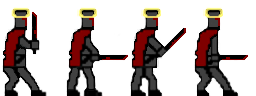
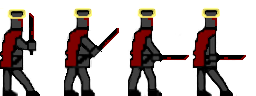
Added multiple animations

diff --git a/TE4TwoDSidescroller/Animation.cs b/TE4TwoDSidescroller/Animation.cs
@@ -88,87 +88,87 @@ namespace TE4TwoDSidescroller
 
         #region newer code
 
-        //public float timeElapsed;
-        //public bool isLooping;
-        //private float timeToUpdate; //frameSpeed
-        //public int FramePerSecond
-        //{
-        //    set
-        //    {
-        //        timeToUpdate = (1f / value);
+        public float timeElapsed;
+        public bool isLooping;
+        private float timeToUpdate; //frameSpeed
+        public int FramePerSecond
+        {
+            set
+            {
+                timeToUpdate = (1f / value);
 
-        //    }
-        //}
+            }
+        }
 
-        //protected Texture2D currentTexture;
-        //public Vector2 position;
-        //public Vector2 origin;
-        //public float rotation;
-        //public float scale;
-        //protected Rectangle[] rectangles;
-        //protected int frameIndex;
+        protected Texture2D currentTexture;
+        public Vector2 position;
+        public Vector2 origin;
+        public float rotation;
+        public float scale;
+        protected Rectangle[] rectangles;
+        protected int frameIndex;
 
-        //public Animation(Texture2D Texture, int frames)
-        //{
-        //    currentTexture = Texture;
-        //    int width = Texture.Width / frames;
-        //    rectangles = new Rectangle[frames];
+        public Animation(Texture2D Texture, int frames)
+        {
+            currentTexture = Texture;
+            int width = Texture.Width / frames;
+            rectangles = new Rectangle[frames];
 
-        //    for (int currentFrame = 0; currentFrame < frames; currentFrame++)
-        //    {
-        //        rectangles[currentFrame] = new Rectangle(
-        //            currentFrame * width, 0, width, Texture.Height);
-        //    }
+            for (int currentFrame = 0; currentFrame < frames; currentFrame++)
+            {
+                rectangles[currentFrame] = new Rectangle(
+                    currentFrame * width, 0, width, Texture.Height);
+            }
 
-        //    position = Vector2.Zero;
-        //    rotation = 0.0f;
-        //    scale = 1f;
-        //    frameIndex = 0;
-        //}
+            position = Vector2.Zero;
+            rotation = 0.0f;
+            scale = 1f;
+            frameIndex = 0;
+        }
 
-        //public void Draw(GameTime gameTime)
-        //{
-        //    GameInfo.spriteBatch.Draw(currentTexture, position, rectangles[frameIndex], Color.White, rotation, origin, scale, SpriteEffects.None, 0f);
-        //}
+        public void Draw(GameTime gameTime)
+        {
+            GameInfo.spriteBatch.Draw(currentTexture, position, rectangles[frameIndex], Color.White, rotation, origin, scale, SpriteEffects.None, 0f);
+        }
 
-        //public void Update(GameTime gameTime)
-        //{
-        //    timeElapsed += (float)gameTime.ElapsedGameTime.TotalSeconds;
-        //    if (timeElapsed > timeToUpdate)
-        //    {
-        //        timeElapsed -= timeToUpdate;
+        public void Update(GameTime gameTime)
+        {
+            timeElapsed += (float)gameTime.ElapsedGameTime.TotalSeconds;
+            if (timeElapsed > timeToUpdate)
+            {
+                timeElapsed -= timeToUpdate;
 
-        //        if (frameIndex < rectangles.Length - 1)
-        //        {
-        //            frameIndex++;
-        //        }
-        //        else if (isLooping)
-        //        {
-        //            frameIndex = 0;
-        //        }
-        //    }
-        //}
+                if (frameIndex < rectangles.Length - 1)
+                {
+                    frameIndex++;
+                }
+                else if (isLooping)
+                {
+                    frameIndex = 0;
+                }
+            }
+        }
 
         #endregion
 
         #region newest code
 
-        private Vector2 spritePosition;
+        //private Vector2 spritePosition;
 
-        public Animation(Vector2 position)
-        {
-            this.spritePosition = position;
-        }
+        //public Animation(Vector2 position)
+        //{
+        //    this.spritePosition = position;
+        //}
 
-        public  void Update(GameTime gameTime)
-        {
+        //public  void Update(GameTime gameTime)
+        //{
 
-        }
+        //}
 
-        public  void Draw(GameTime game)
-        {
+        //public  void Draw(GameTime game)
+        //{
 
-        }
+        //}
 
         #endregion
     }

diff --git a/TE4TwoDSidescroller/Player.cs b/TE4TwoDSidescroller/Player.cs
@@ -133,13 +133,13 @@ namespace TE4TwoDSidescroller
                 rightWalk = Texture2D.FromStream(GameInfo.graphicsDevice.GraphicsDevice, textureStream);
             }
 
-            string path2 = Path.GetDirectoryName(
-                System.Reflection.Assembly.GetExecutingAssembly().Location)
-                + "/Content/Pngs/MainCharacters/" + "ShadowRunLeft.png";
-            using (Stream textureStream = new FileStream(path2, FileMode.Open))
-            {
-                leftWalk = Texture2D.FromStream(GameInfo.graphicsDevice.GraphicsDevice, textureStream);
-            }
+            //string path2 = Path.GetDirectoryName(
+            //    System.Reflection.Assembly.GetExecutingAssembly().Location)
+            //    + "/Content/Pngs/MainCharacters/" + "ShadowRunLeft.png";
+            //using (Stream textureStream = new FileStream(path2, FileMode.Open))
+            //{
+            //    leftWalk = Texture2D.FromStream(GameInfo.graphicsDevice.GraphicsDevice, textureStream);
+            //}
         }
         public override void HasCollidedWith(Entity collider)
         {

diff --git a/TE4TwoDSidescroller/LevelTutorial.cs b/TE4TwoDSidescroller/LevelTutorial.cs
@@ -23,7 +23,6 @@ namespace TE4TwoDSidescroller
             Entity floor;
             Entity TutorialGoal;
             Entity knight;
-            Entity playerTest;
 
             background = new Background();
             GameInfo.entityManager.AddEntity(background);
@@ -40,8 +39,6 @@ namespace TE4TwoDSidescroller
             knight = new Knight();
             GameInfo.entityManager.AddEntity(knight);
 
-            playerTest = new PlayerTest();
-            GameInfo.entityManager.AddEntity(playerTest);
         }
 
         public override void Update(GameTime gameTime)
